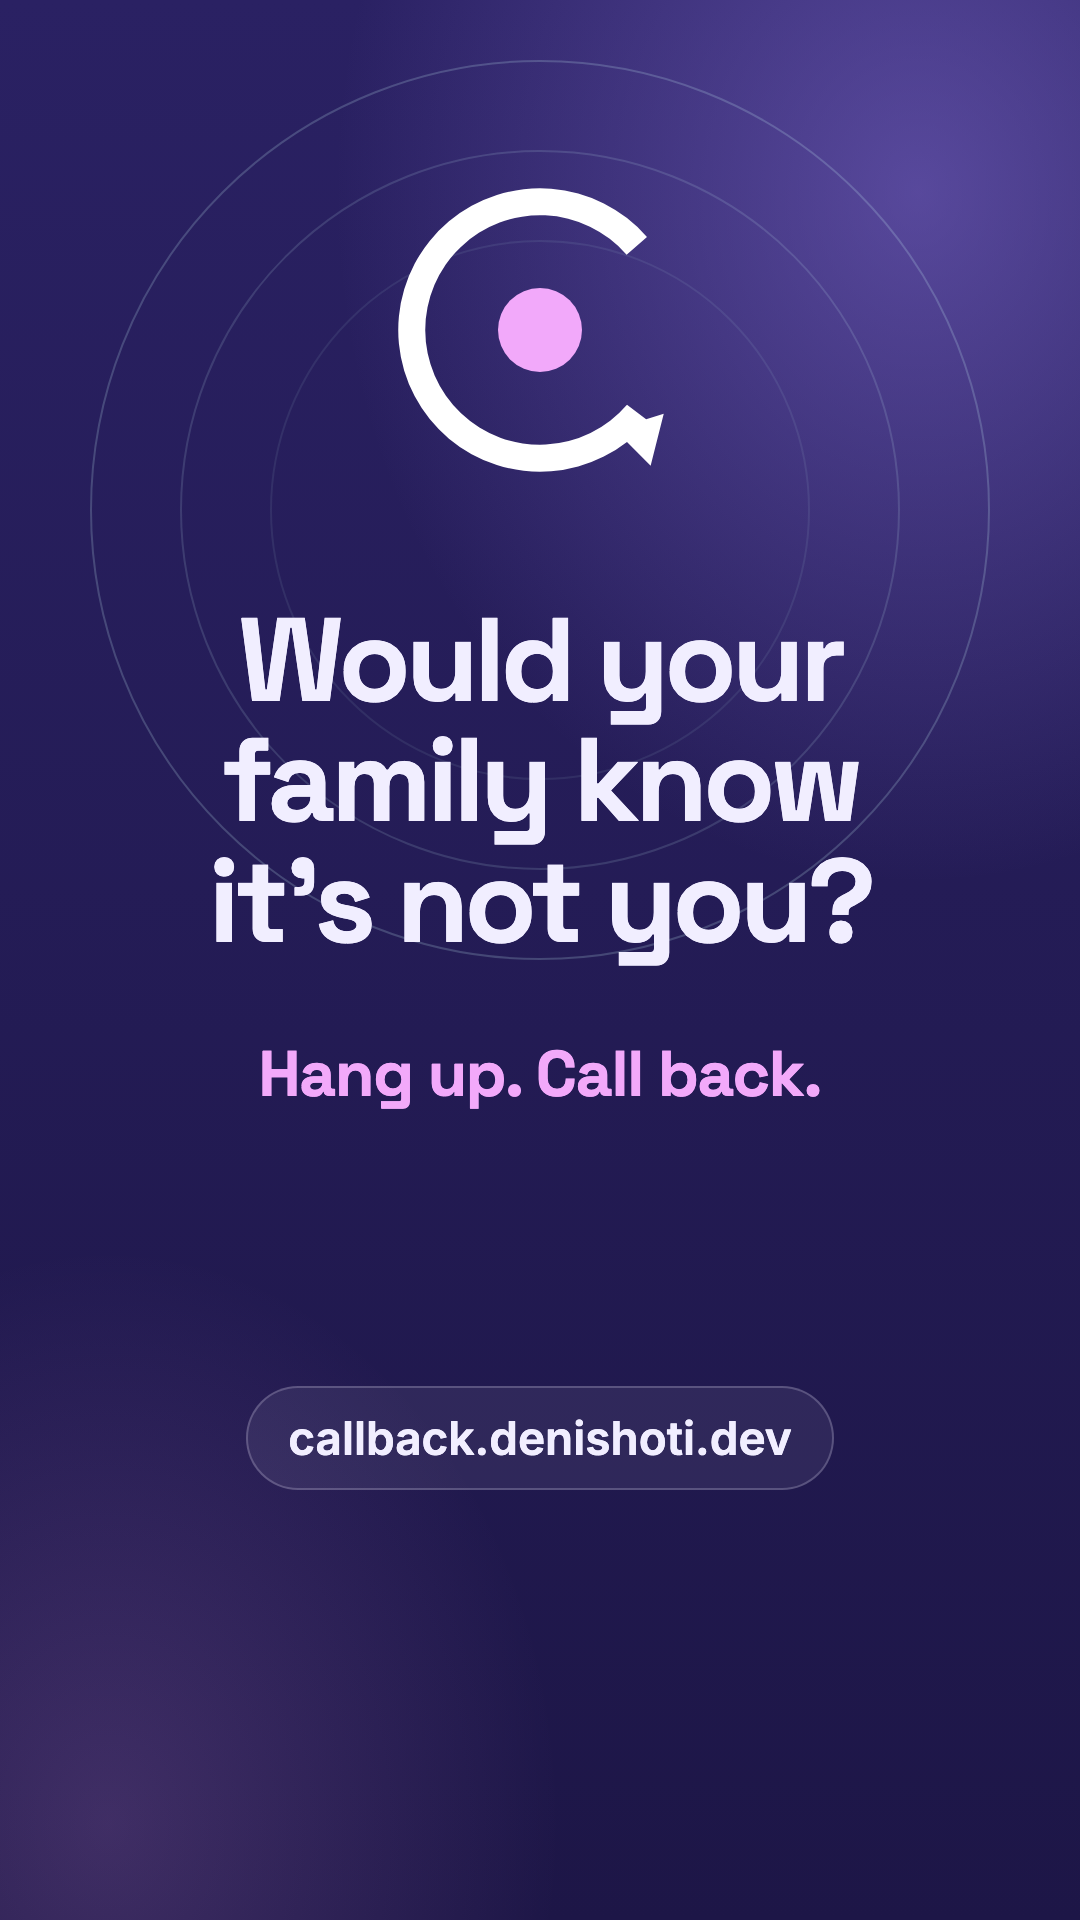
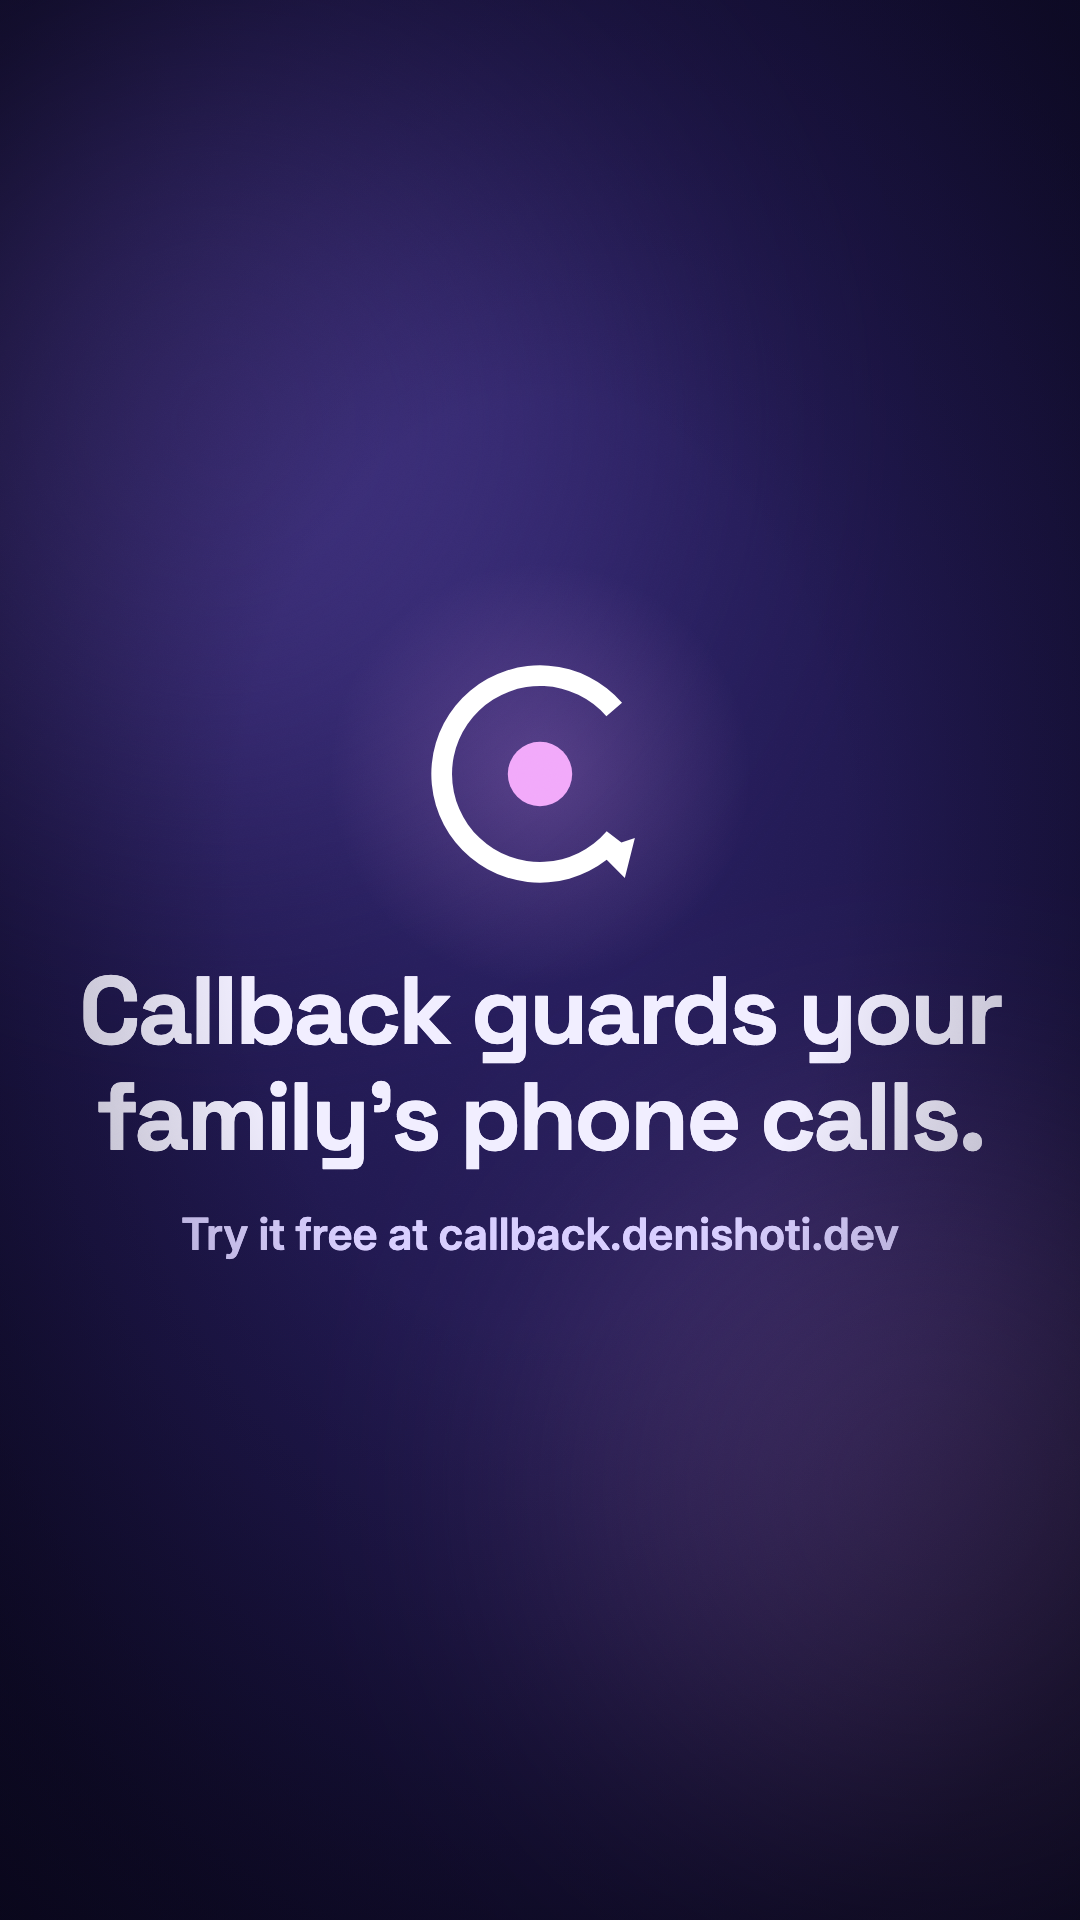
End cards say what Callback is: an app that guards your family's phone calls
People read 'Hang up. Call back.' as the whole idea, not a product. The
reel end card and the video cards now name the app, say what it does and
invite people to try it free; the warning step says 'within seconds'.

diff --git a/video/remotion/src/Cards.tsx b/video/remotion/src/Cards.tsx
@@ -9,13 +9,13 @@ import { BODY, C, HEAD } from "./timing";
 
 export const COPY = {
   title: "Callback",
-  tagline: "A voice agent that guards your family's phone.",
+  tagline: "An app that guards your family's phone calls.",
   howTitle: "How Callback guards a call",
   steps: [
     { title: "The caller speaks", text: "A real call, through Callback" },
     { title: "Every sentence turned into text", text: "Live, with ElevenLabs" },
     { title: "A risk check on each sentence", text: "Money today, secrecy, a new number" },
-    { title: "A warning on the phone", text: "In about 2 seconds" },
+    { title: "A warning on the phone", text: "Within seconds, during the call" },
     { title: "The family is alerted", text: "Everyone on the family plan" },
   ],
   consent: "Consent at every step",
@@ -30,8 +30,8 @@ export const COPY = {
     },
   ],
   pricing: "Families €4.99 a month · Banks pay to protect their customers",
-  endLine: "Set a family word tonight.",
-  url: "callback.denishoti.dev",
+  endLine: "Callback guards your family's phone calls.",
+  url: "Try it free at callback.denishoti.dev",
 };
 
 /** Layout helpers: portrait or landscape, and a unit that scales with the frame. */
